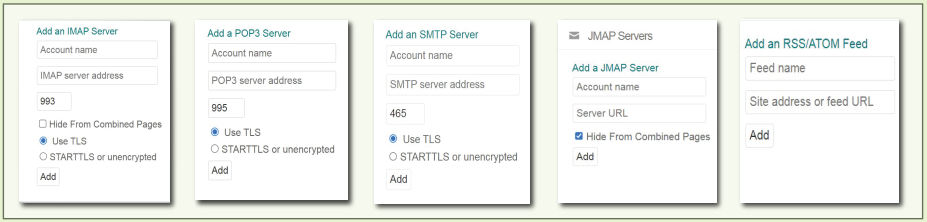
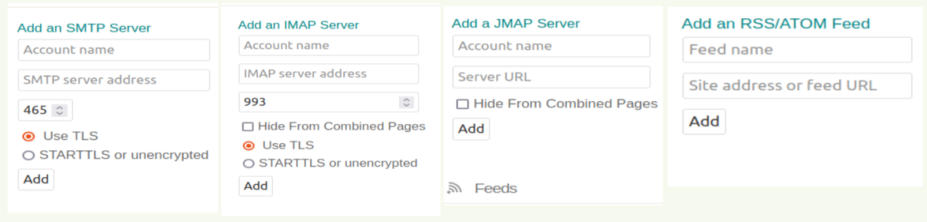
[REM] cypht-website: Remove POP3 in cypht website and related images for documentation

Changed region(s): [[0.0, 0.0, 1.0, 1.0], [0.2416, 0.8108, 0.302, 0.8649], [0.4229, 0.7838, 0.4531, 0.8378]]

diff --git a/documentation.html b/documentation.html
@@ -108,7 +108,7 @@
             
             <div class="element2"> 
                 <p class="text-center">Enhanced customization capabilities allow user to setup, configure, and manage
-                    IMAP, SMTP, POP3 and JMAP servers and setup the ATOM/RSS Feed</p>
+                    IMAP, SMTP and JMAP servers and setup the ATOM/RSS Feed</p>
             </div>
             <div class="element1">
                 <img src="img/Multi.PNG" alt="login">
